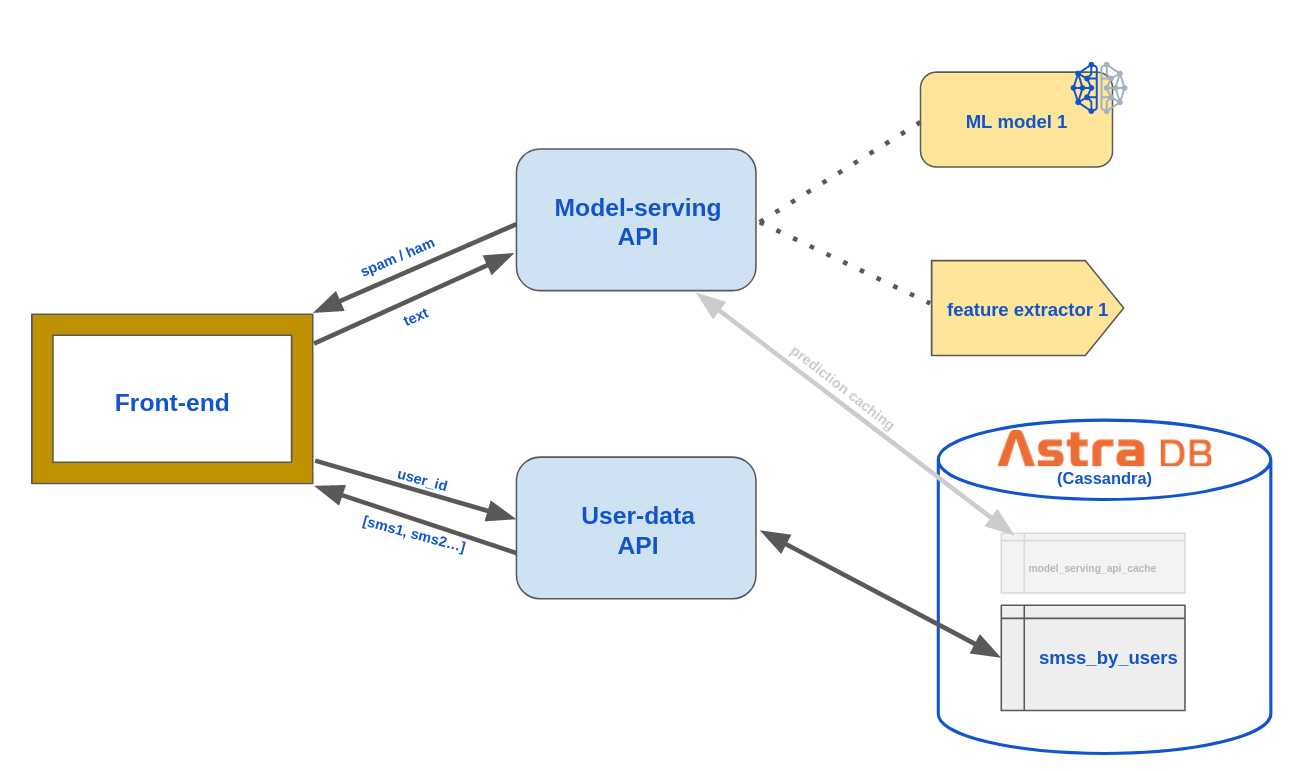
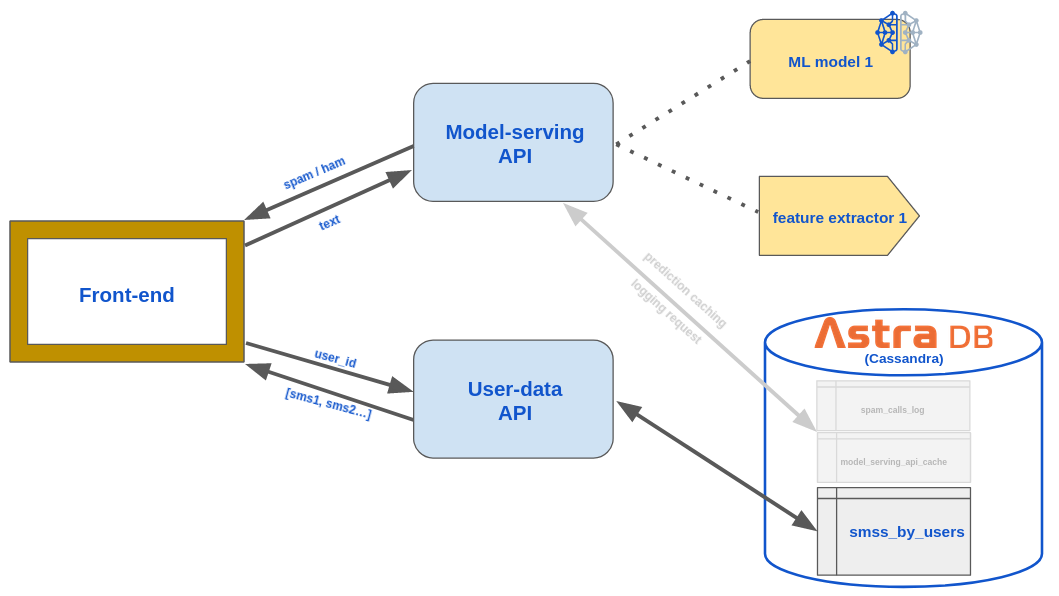
spam-calls logging

diff --git a/api/model_serving/routers/model_router.py b/api/model_serving/routers/model_router.py
@@ -1,11 +1,13 @@
 from operator import itemgetter
-from fastapi import APIRouter, Depends
+from fastapi import APIRouter, Depends, Request
+from typing import List
 
 from api.model_serving.utils.db_dependency import g_get_session
-from api.model_serving.storage.db_io import store_cached_prediction, retrieve_cached_prediction
+from api.model_serving.storage.db_io import store_cached_prediction, retrieve_cached_prediction, store_call_log_item, retrieve_call_log
 
 from api.model_serving.models.payload import TextInput, FeatureInput
 from api.model_serving.models.response import FeaturesResult, PredictionResultFromText, PredictionResultFromFeatures
+from api.model_serving.models.call_log import CallLogEntry
 
 model_wrapper_cache = {}
 
@@ -23,6 +25,7 @@ def _get_top_prediction(pred_dict):
             'label': topK,
             'value': topV,
         }
+
 
 def _format_prediction(pred_dict, input, echo_input, from_cache, model_class):
     result = {
@@ -55,7 +58,7 @@ def createModelRouter(version, model_wrapper):
     )
 
     @modelRouter.post('/text_to_features', response_model=FeaturesResult, tags=[version])
-    async def serve_text_to_features(params: TextInput, session=Depends(g_get_session)):
+    async def serve_text_to_features(params: TextInput, request: Request, session=Depends(g_get_session)):
         # try cache:
         cached = None if params.skip_cache else retrieve_cached_prediction(session, 'text_to_features', version=version, input=params.text)
         # act accordingly
@@ -67,6 +70,8 @@ def createModelRouter(version, model_wrapper):
             from_cache = False
             store_cached_prediction(session, 'text_to_features', version=version, input=params.text, output=features)
         #
+        caller_id = request.client[0]
+        store_call_log_item(session, caller_id, 'text_to_features', version=version, input=params.text)
         return _format_features(
             features=features,
             input=params.text,
@@ -75,7 +80,7 @@ def createModelRouter(version, model_wrapper):
         )
 
     @modelRouter.post('/features_to_prediction', response_model=PredictionResultFromFeatures, tags=[version])
-    async def serve_features_to_prediction(params: FeatureInput, session=Depends(g_get_session)):
+    async def serve_features_to_prediction(params: FeatureInput, request: Request, session=Depends(g_get_session)):
         # try cache:
         cached = None if params.skip_cache else retrieve_cached_prediction(session, 'features_to_prediction', version=version, input=params.features)
         # act accordingly
@@ -87,6 +92,8 @@ def createModelRouter(version, model_wrapper):
             from_cache = False
             store_cached_prediction(session, 'features_to_prediction', version=version, input=params.features, output=prediction_dict)
         #
+        caller_id = request.client[0]
+        store_call_log_item(session, caller_id, 'features_to_prediction', version=version, input=params.features)
         return _format_prediction(
             prediction_dict,
             params.features,
@@ -96,7 +103,7 @@ def createModelRouter(version, model_wrapper):
         )
 
     @modelRouter.post('/text_to_prediction', response_model=PredictionResultFromText, tags=[version])
-    async def serve_text_to_prediction(params: TextInput, session=Depends(g_get_session)):
+    async def serve_text_to_prediction(params: TextInput, request: Request, session=Depends(g_get_session)):
         # try cache:
         cached = None if params.skip_cache else retrieve_cached_prediction(session, 'text_to_prediction', version=version, input=params.text)
         # act accordingly
@@ -107,6 +114,8 @@ def createModelRouter(version, model_wrapper):
             prediction_dict = model_wrapper_cache[version].text_to_prediction(params.text)
             from_cache = False
             store_cached_prediction(session, 'text_to_prediction', version=version, input=params.text, output=prediction_dict)
+        caller_id = request.client[0]
+        store_call_log_item(session, caller_id, 'text_to_features', version=version, input=params.text)
         return _format_prediction(
             prediction_dict,
             params.text,
@@ -114,5 +123,10 @@ def createModelRouter(version, model_wrapper):
             from_cache=from_cache,
             model_class=PredictionResultFromText,
         )
+
+    @modelRouter.get('/recent_call_log', response_model=List[CallLogEntry], tags=[version])
+    async def get_call_log(request: Request, session=Depends(g_get_session)):
+        caller_id = request.client[0]
+        return retrieve_call_log(session, caller_id, version)
 
     return modelRouter

diff --git a/api/model_serving/storage/db_io.py b/api/model_serving/storage/db_io.py
@@ -8,6 +8,9 @@ performance.
 """
 
 import json
+from datetime import datetime
+
+from api.model_serving.models.call_log import CallLogEntry
 
 
 prepared_cache = {}
@@ -39,6 +42,7 @@ def retrieve_cached_prediction(session, endpoint, version, input):
         print('[retrieve_cached_prediction] Cache-read operation failed. Make sure cache table exists.')
         return None
 
+
 def store_cached_prediction(session, endpoint, version, input, output):
     """
     Here the input and output are serialized before insertion
@@ -52,3 +56,29 @@ def store_cached_prediction(session, endpoint, version, input, output):
         return
     except Exception as e:
         print('[store_cached_prediction] Cache-write operation failed. Make sure cache table exists.')
+
+
+def store_call_log_item(session, caller_id, endpoint, version, input):
+    try:
+        input_json = json.dumps(input)
+        called_at = datetime.now()
+        insert_cql = 'INSERT INTO spam_calls_log (caller_id, called_at, endpoint, version, input_json) VALUES (?, ?, ?, ?, ?);'
+        prepared_insert_cql = get_prepared_statement(session, insert_cql)
+        session.execute(prepared_insert_cql, (caller_id, called_at, endpoint, version, input_json))
+        return
+    except Exception as e:
+        print('[store_call_log_item] Call-log-write operation failed. Make sure call-log table exists.')
+
+
+def retrieve_call_log(session, caller_id, version):
+    try:
+        get_many_cql = 'SELECT called_at, endpoint, version, input_json FROM spam_calls_log WHERE caller_id=? AND version=?;'
+        prepared_get_many_cql = get_prepared_statement(session, get_many_cql)
+        log_entries = session.execute(prepared_get_many_cql, (caller_id, version))
+        return (
+            CallLogEntry(**row._asdict())
+            for row in log_entries
+        )
+    except Exception as e:
+        print('[retrieve_call_log] Call-log-read operation failed. Make sure call-log table exists.')
+        return []

diff --git a/scripts/initialize_model_serving_api_caches.py b/scripts/initialize_model_serving_api_caches.py
@@ -10,6 +10,17 @@ CREATE TABLE IF NOT EXISTS model_serving_api_cache (
 );
 '''
 
+CREATE_API_CALL_LOG_CQL = '''
+CREATE TABLE IF NOT EXISTS spam_calls_log (
+    caller_id   TEXT,
+    version     TEXT,
+    called_at   TIMESTAMP,
+    endpoint    TEXT,
+    input_json  TEXT,
+    PRIMARY KEY (( caller_id, version ), called_at )
+) WITH default_time_to_live = 3600;
+'''
+
 
 if __name__ == '__main__':
     # get db connection
@@ -17,4 +28,5 @@ if __name__ == '__main__':
     # create table (Note: handling schema changes programmatically
     # is usually a bad idea in production ...)
     session.execute(CREATE_API_CACHE_TABLE_CQL)
-    print('Table created (if needed).')
+    session.execute(CREATE_API_CALL_LOG_CQL)
+    print('Tables created (if needed).')

diff --git a/api/model_serving/models/call_log.py b/api/model_serving/models/call_log.py
@@ -1,0 +1,10 @@
+from pydantic import BaseModel
+from datetime import datetime
+
+# models to handle the call log
+
+class CallLogEntry(BaseModel):
+    called_at: datetime
+    endpoint: str
+    version: str
+    input_json: str

diff --git a/README.md b/README.md
@@ -230,9 +230,16 @@ subclasses a generic `TextClassifierModel` interface; instances of these
 classes, one per model/version, are given to a factory function that creates
 a corresponding FastAPI "router".
 
-**Note**: this API makes an "incidental" use of Astra DB as a cache for
-predictions that were already computed (see below for details). In order
-to set up the cache table, first copy the `.env.sample` file to `.env` and edit the values therein (similarly as the feature store definition yaml file), then run once the script `python scripts/initialize_model_serving_api_caches.py`. If you later see errors such as "Cache-read operation failed. Make sure cache table exists.", chances are you did not run the initialization script.
+**Note**: this API makes a "collateral" use of Astra DB as (1) a cache for
+predictions that were already computed, and (2) to store the log of all
+recent API calls per user (see below for details). In order
+to set up the corresponding tables, first copy the `.env.sample` file to `.env` and
+edit the values therein (similarly as the feature store definition yaml file),
+then run the script `python scripts/initialize_model_serving_api_caches.py`
+just once.
+If you later see errors similar to _"Cache-read operation failed. Make
+sure cache table exists."_, chances are you did not run this
+initialization script.
 
 At this stage, we can only serve model `v1`. To start the API,
 ```
@@ -244,17 +251,17 @@ and to test it you can try:
 curl -XPOST \
   http://localhost:8000/model/v1/text_to_features \
   -H 'Content-Type: application/json' \
-  -d '{"text": "I have a dream"}'
+  -d '{"text": "I have a dream"}' | jq
 
 curl -XPOST \
   http://localhost:8000/model/v1/features_to_prediction \
   -H 'Content-Type: application/json' \
-  -d '{"features": [0.09090909090909091,0.0,0,0,0,0,0,0,0]}'
+  -d '{"features": [0.09090909090909091,0.0,0,0,0,0,0,0,0]}' | jq
 
 curl -XPOST \
   http://localhost:8000/model/v1/text_to_prediction \
   -H 'Content-Type: application/json' \
-  -d '{"text": "I have a dream"}'
+  -d '{"text": "I have a dream"}' | jq
 ```
 
 You can also check the auto-generated OpenAPI docs: `http://127.0.0.1:8000/docs`.
@@ -293,6 +300,30 @@ cache _before_ returning to the caller, but this is not really optimal:
 we could shave off a few milliseconds by scheduling the cache-write _after_
 the response is sent out. To do that, we might make use of FastAPI's
 [background tasks](https://fastapi.tiangolo.com/tutorial/background-tasks/).
+
+#### A note on the "recent call log" (optional reading)
+
+The model-serving API also keeps tracks of each call it receives,
+storing them in a call-log table which can then be inspected
+with a dedicated `/recent_call_log` endpoint.
+
+The log entries are stored to an Astra DB table, with a pre-configured
+time-to-live of one hour (to avoid unbound growth of the row count).
+Of course, the performance
+pros and cons of storing each and every call must be evaluated on a
+case-by-case basis, but this could be a good starting point to implement
+for instance a rate limiter.
+
+At the moment this feature is not used directly in the client: it can
+be tested with the following command (which will return a nonempty list
+provided you ran at least the test invocations given above):
+```
+curl localhost:8000/model/v1/recent_call_log | jq
+```
+
+The same consideration as for the cache holds about the opportunity
+of moving the call-log-write operation to a background task to avoid
+having the caller pay for the (however small) associated extra latency.
 
 #### The user-data API
 
@@ -344,9 +375,9 @@ uvicorn api.user_data.user_api:app --port 8111
 
 You can test it with:
 ```
-curl http://localhost:8111/sms/max
+curl http://localhost:8111/sms/max | jq
 
-curl http://localhost:8111/sms/fiona/32e14000-8400-11e9-aeb7-d19b11ef0c7e
+curl http://localhost:8111/sms/fiona/32e14000-8400-11e9-aeb7-d19b11ef0c7e | jq
 ```
 
 (and see the docs at `http://localhost:8111/docs` as well.)
@@ -471,19 +502,19 @@ and to test the endpoints for the new model:
 curl -XPOST \
   http://localhost:8000/model/v2/text_to_features \
   -H 'Content-Type: application/json' \
-  -d '{"text": "I have a dream"}'
+  -d '{"text": "I have a dream"}' | jq
 
 curl -XPOST \
   http://localhost:8000/model/v2/features_to_prediction \
   -H 'Content-Type: application/json' \
   -d '{"features": [0.0,0.0,0.0,0.0,0.0,0.0,0.0,0.0,0.0,0.0,0.0,
                     0.0,0.0,0.0,0.0,0.0,0.0,0.0,0.0,0.0,0.0,0.0,
-                    0.0,0.0,0.0,0.0,0.0,1.0,20.0,4.0]}'
+                    0.0,0.0,0.0,0.0,0.0,1.0,20.0,4.0]}' | jq
 
 curl -XPOST \
   http://localhost:8000/model/v2/text_to_prediction \
   -H 'Content-Type: application/json' \
-  -d '{"text": "I have a dream"}'
+  -d '{"text": "I have a dream"}' | jq
 ```
 
 Here is a sketch of how the various model versions are installed in the FastAPI
@@ -543,19 +574,19 @@ and tested with:
 curl -XPOST \
   http://localhost:8000/model/v3/text_to_features \
   -H 'Content-Type: application/json' \
-  -d '{"text": "I have a dream"}'
+  -d '{"text": "I have a dream"}' | jq
 
 curl -XPOST \
   http://localhost:8000/model/v3/features_to_prediction \
   -H 'Content-Type: application/json' \
   -d '{"features": [0.0,0.0,0.0,0.0,0.0,0.0,0.0,0.0,0.0,0.0,0.0,
                     0.0,0.0,0.0,0.0,0.0,0.0,0.0,0.0,0.0,0.0,0.0,
-                    0.0,0.0,0.0,0.0,0.0,1.0,20.0,4.0]}'
+                    0.0,0.0,0.0,0.0,0.0,1.0,20.0,4.0]}' | jq
 
 curl -XPOST \
   http://localhost:8000/model/v3/text_to_prediction \
   -H 'Content-Type: application/json' \
-  -d '{"text": "I have a dream"}'
+  -d '{"text": "I have a dream"}' | jq
 ```
 
 As for the client, it can be made to point to the new model with:
@@ -684,7 +715,7 @@ curl -s -X POST \
                 ]
             }
         }
-      '
+      ' | jq
 ```
 or directly specifying a feature service:
 ```
@@ -701,7 +732,7 @@ curl -s -X POST \
                 ]
             }
         }
-      '
+      ' | jq
 ```
 
 #### Push sources
@@ -769,7 +800,7 @@ curl -s -X POST \
                 "sms_id": ["sms14052"]
             }
         }
-      '
+      ' | jq
 ```
 
 In short:
@@ -830,12 +861,12 @@ curl -XPOST "http://localhost:8111/sms/ellen" \
             "sender_id": "otto",
             "sms_text": "Can u get me some cabbages at the grocery store?"
         }
-      '
+      ' | jq
 ```
 
 and then
 ```
-curl http://localhost:8111/sms/ellen
+curl http://localhost:8111/sms/ellen | jq
 ```
 
 ##### Inbox API
@@ -856,12 +887,12 @@ curl -XPOST "http://localhost:8222/sms" \
             "sender_id": "ellen",
             "sms_text": "They only have turnips left. What do I do?"
         }
-      '
+      ' | jq
 ```
 
 To check the insertion, you can run
 ```
-curl http://localhost:8111/sms/otto
+curl http://localhost:8111/sms/otto | jq
 ```
 and then run the "online store sampler" with the corresponding `sms_id`:
 ```
